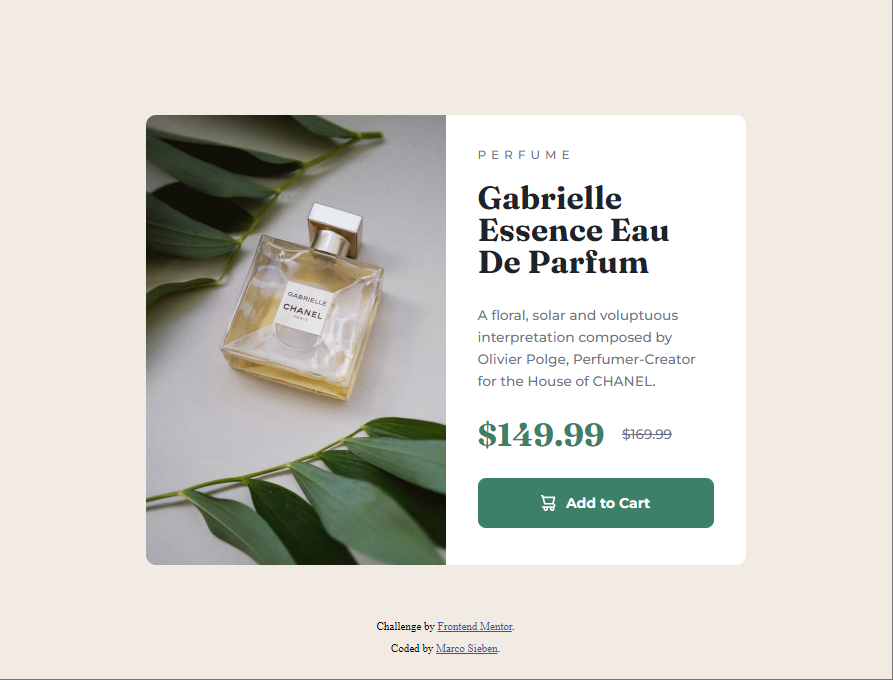
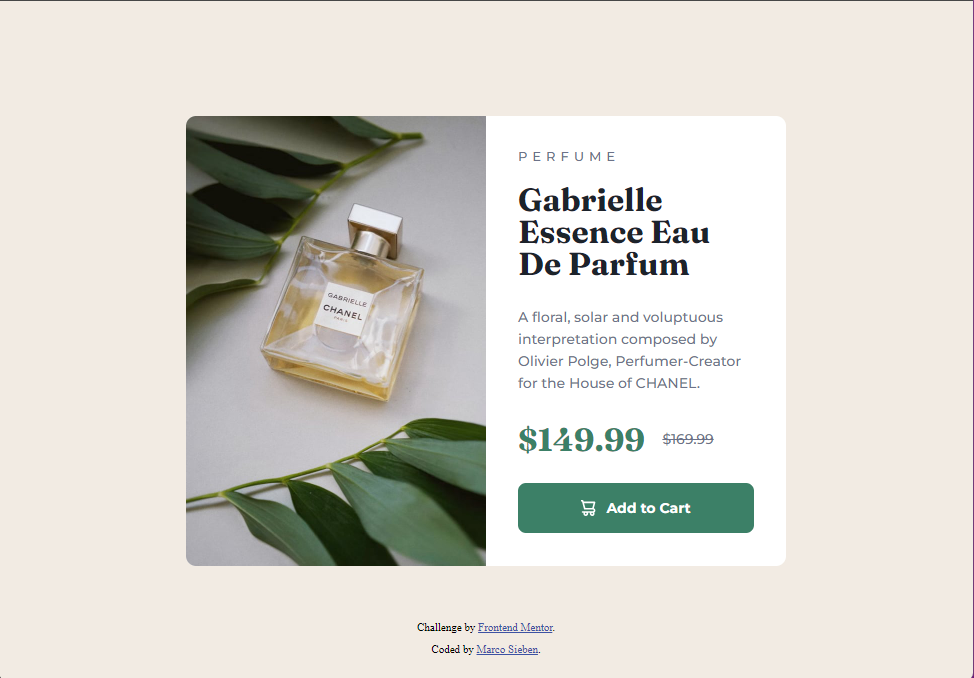
fixed layout

diff --git a/styles/styles.css b/styles/styles.css
@@ -44,7 +44,7 @@ img {
 /* ------- Fonts ------- */
 .card__subtitle {
   font-family: 'Montserrat', sans-serif;
-  font-size: 1.2rem;
+  font-size: 1.3rem;
   color: var(--dark-grayish-blue);
 }
 
@@ -52,7 +52,7 @@ img {
 .card__price--real,
 .card__button {
   font-family: 'Montserrat', sans-serif;
-  font-size: 1.37rem;
+  font-size: 1.4rem;
   color: var(--dark-grayish-blue);
 }
 
@@ -96,7 +96,7 @@ img {
 }
 
 .card__description {
-  margin-bottom: 2.3rem;
+  margin-bottom: 2.6rem;
   line-height: 2.2rem;
 }
 
